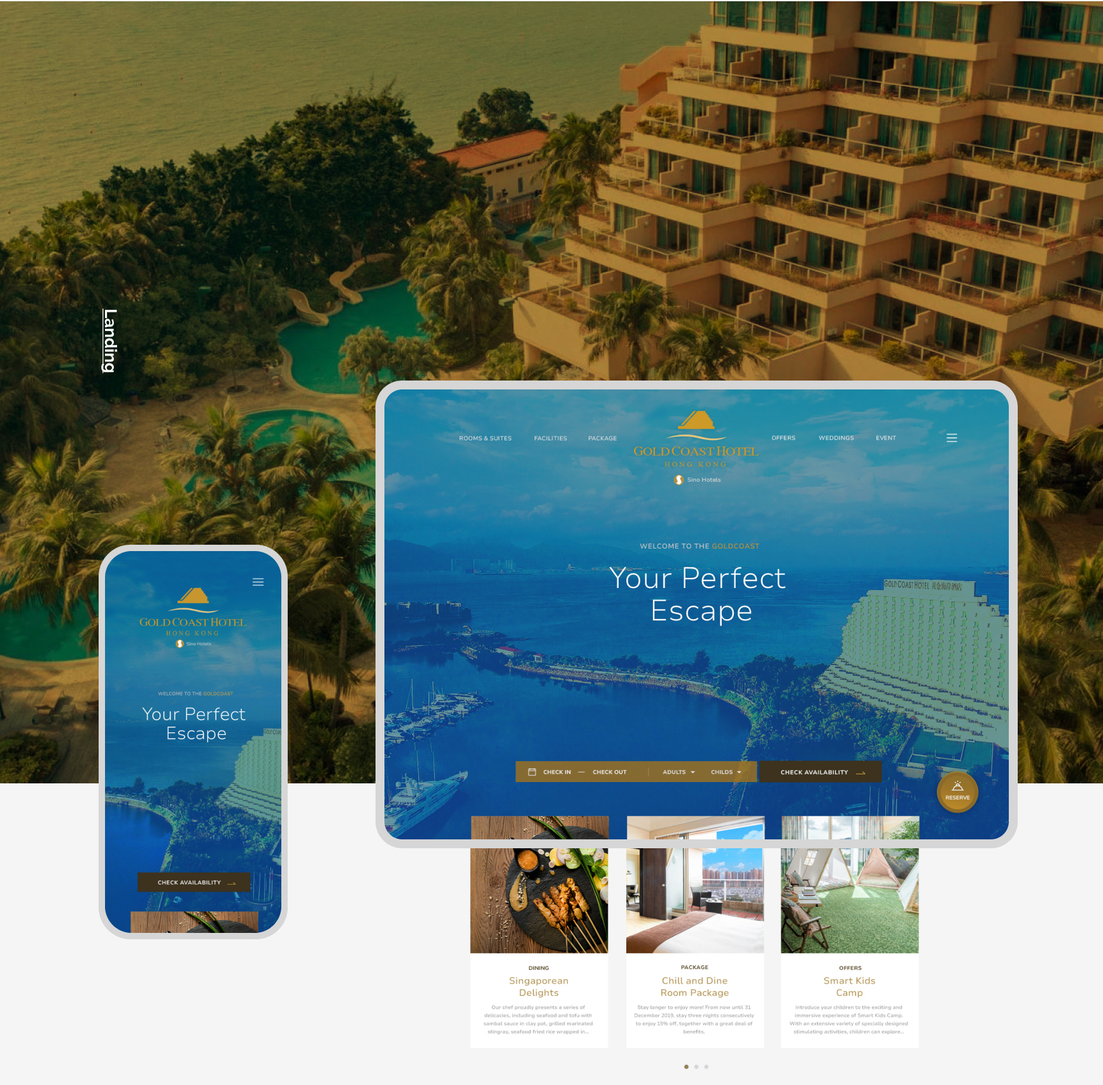
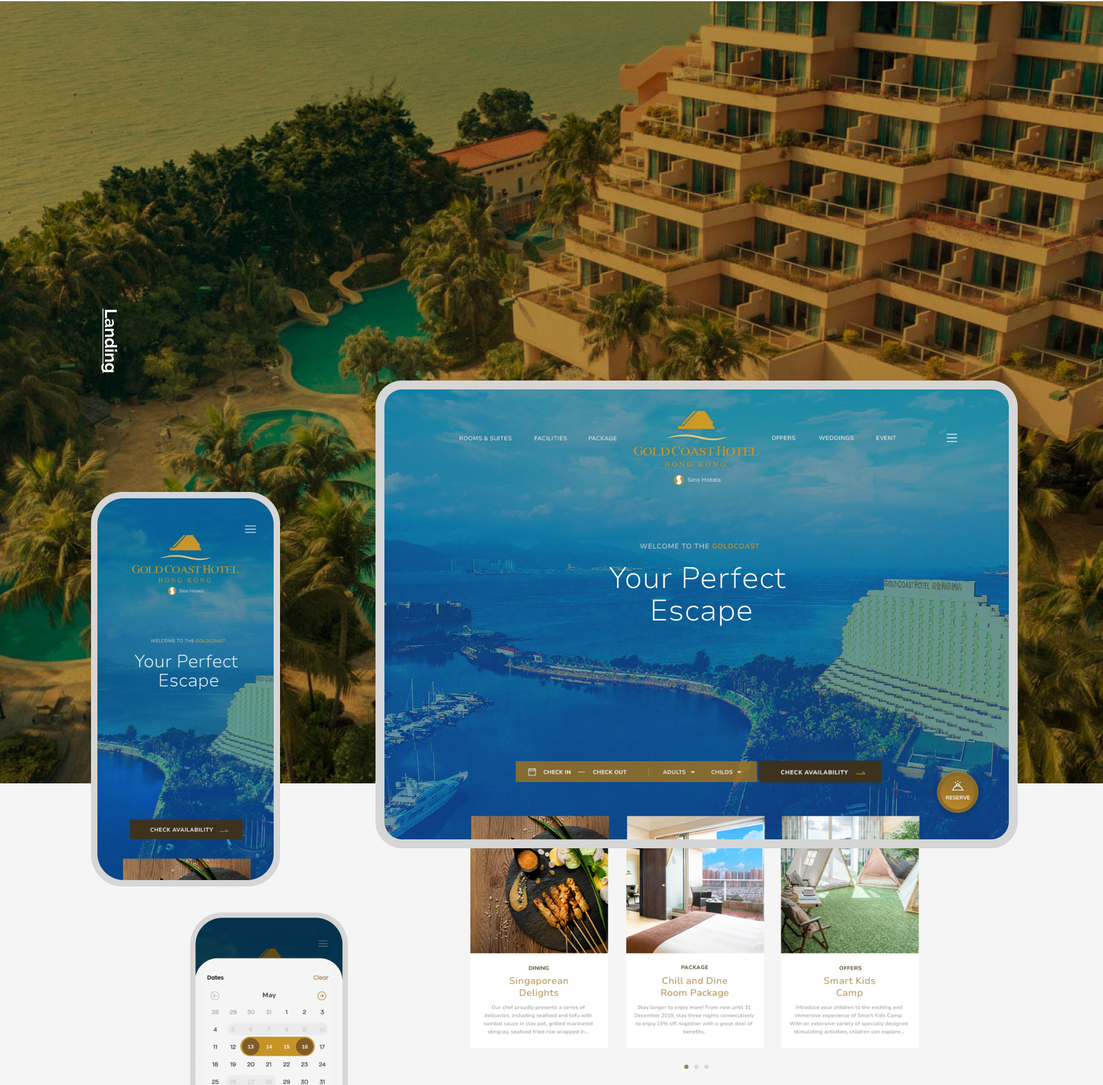
100823

Changed region(s): [[0.0623, 0.4352, 0.3428, 1.0]]

diff --git a/project/goldcoasthk.html b/project/goldcoasthk.html
@@ -321,6 +321,7 @@
 
     <div class="spacing-medium"></div>
 
+
     <div class="full-width spacing-large main-carousel-3 observable lazy">
       <div class="carousel-cell-illus"><img src="../images/projects/goldcoasthk/booking_step_01.jpg"></div>
       <div class="carousel-cell-illus"><img src="../images/projects/goldcoasthk/booking_step_02.jpg"></div>
@@ -416,10 +417,10 @@
 
     <div class="full-width spacing-small">
         <img class="lazy" data-src="../images/projects/goldcoasthk/mockup_01.jpg" />
-        <img class="lazy" data-src="../images/projects/goldcoasthk/mockup_02.jpg" />
-        <img class="lazy" data-src="../images/projects/goldcoasthk/mockup_03.jpg" style="top:-10px"/>
-        <img class="lazy" data-src="../images/projects/goldcoasthk/mockup_04.jpg" style="top:-22px"/>
-        <img class="lazy" data-src="../images/projects/goldcoasthk/mockup_05.jpg" style="top:-12px"/>
+        <img class="lazy" data-src="../images/projects/goldcoasthk/mockup_02.jpg" style="top:-10px"/>
+        <img class="lazy" data-src="../images/projects/goldcoasthk/mockup_03.jpg" style="top:-20px"/>
+        <img class="lazy" data-src="../images/projects/goldcoasthk/mockup_04.jpg" style="top:-32px"/>
+        <img class="lazy" data-src="../images/projects/goldcoasthk/mockup_05.jpg" style="top:-22px"/>
         <img class="lazy" data-src="../images/projects/goldcoasthk/mockup_06.jpg" />
         <img class="lazy" data-src="../images/projects/goldcoasthk/mockup_07.jpg" />
         <img class="lazy" data-src="../images/projects/goldcoasthk/mockup_08.jpg" />
